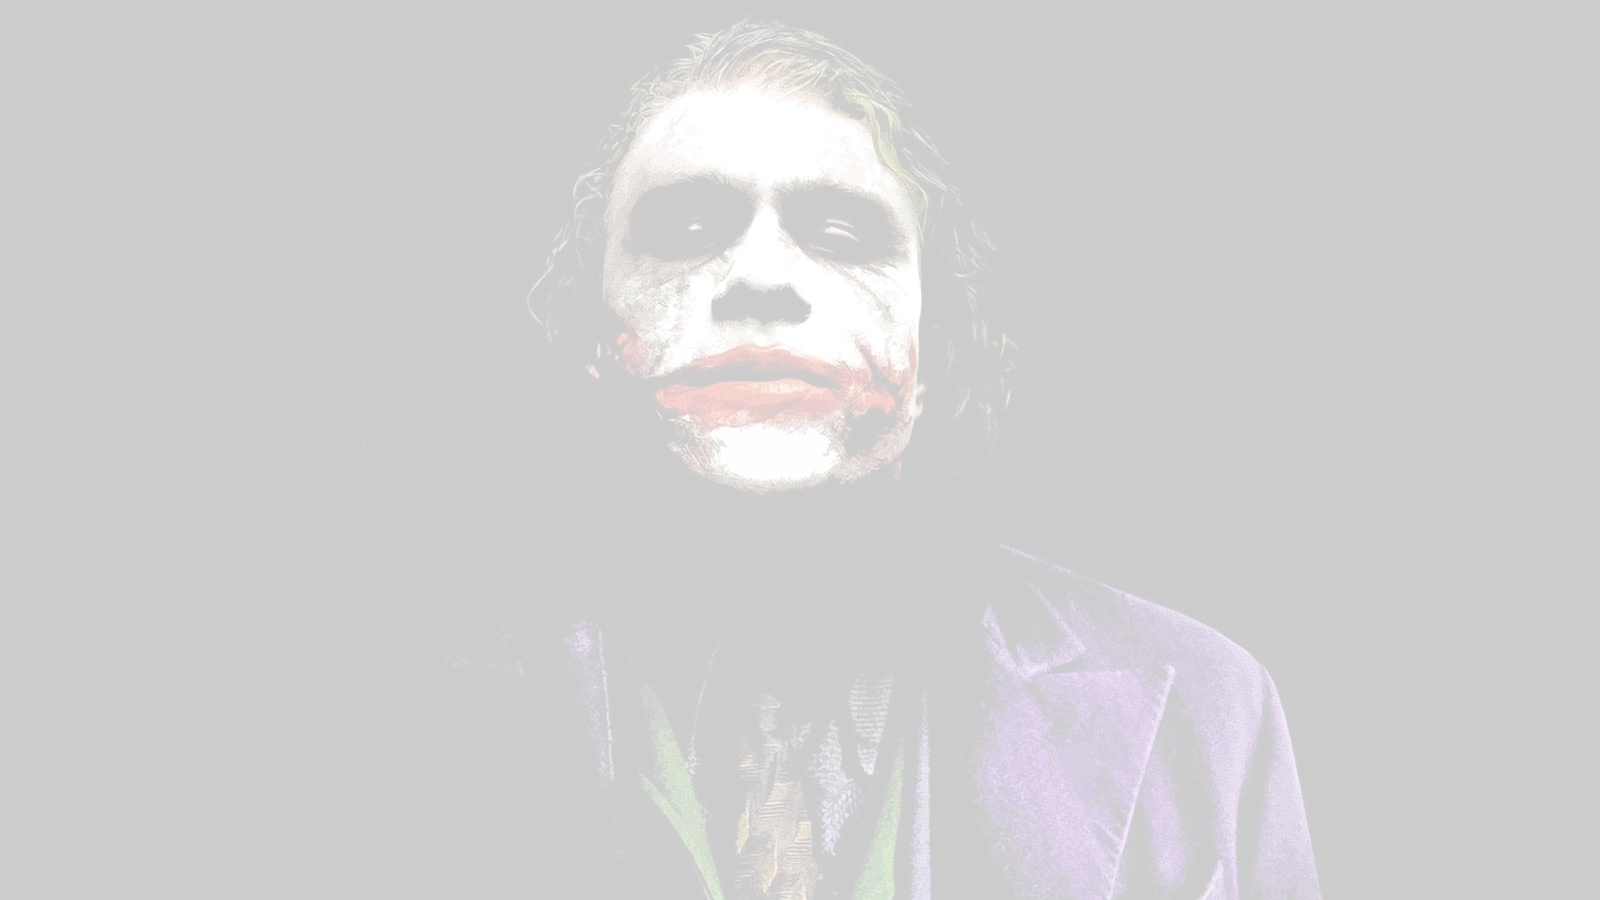
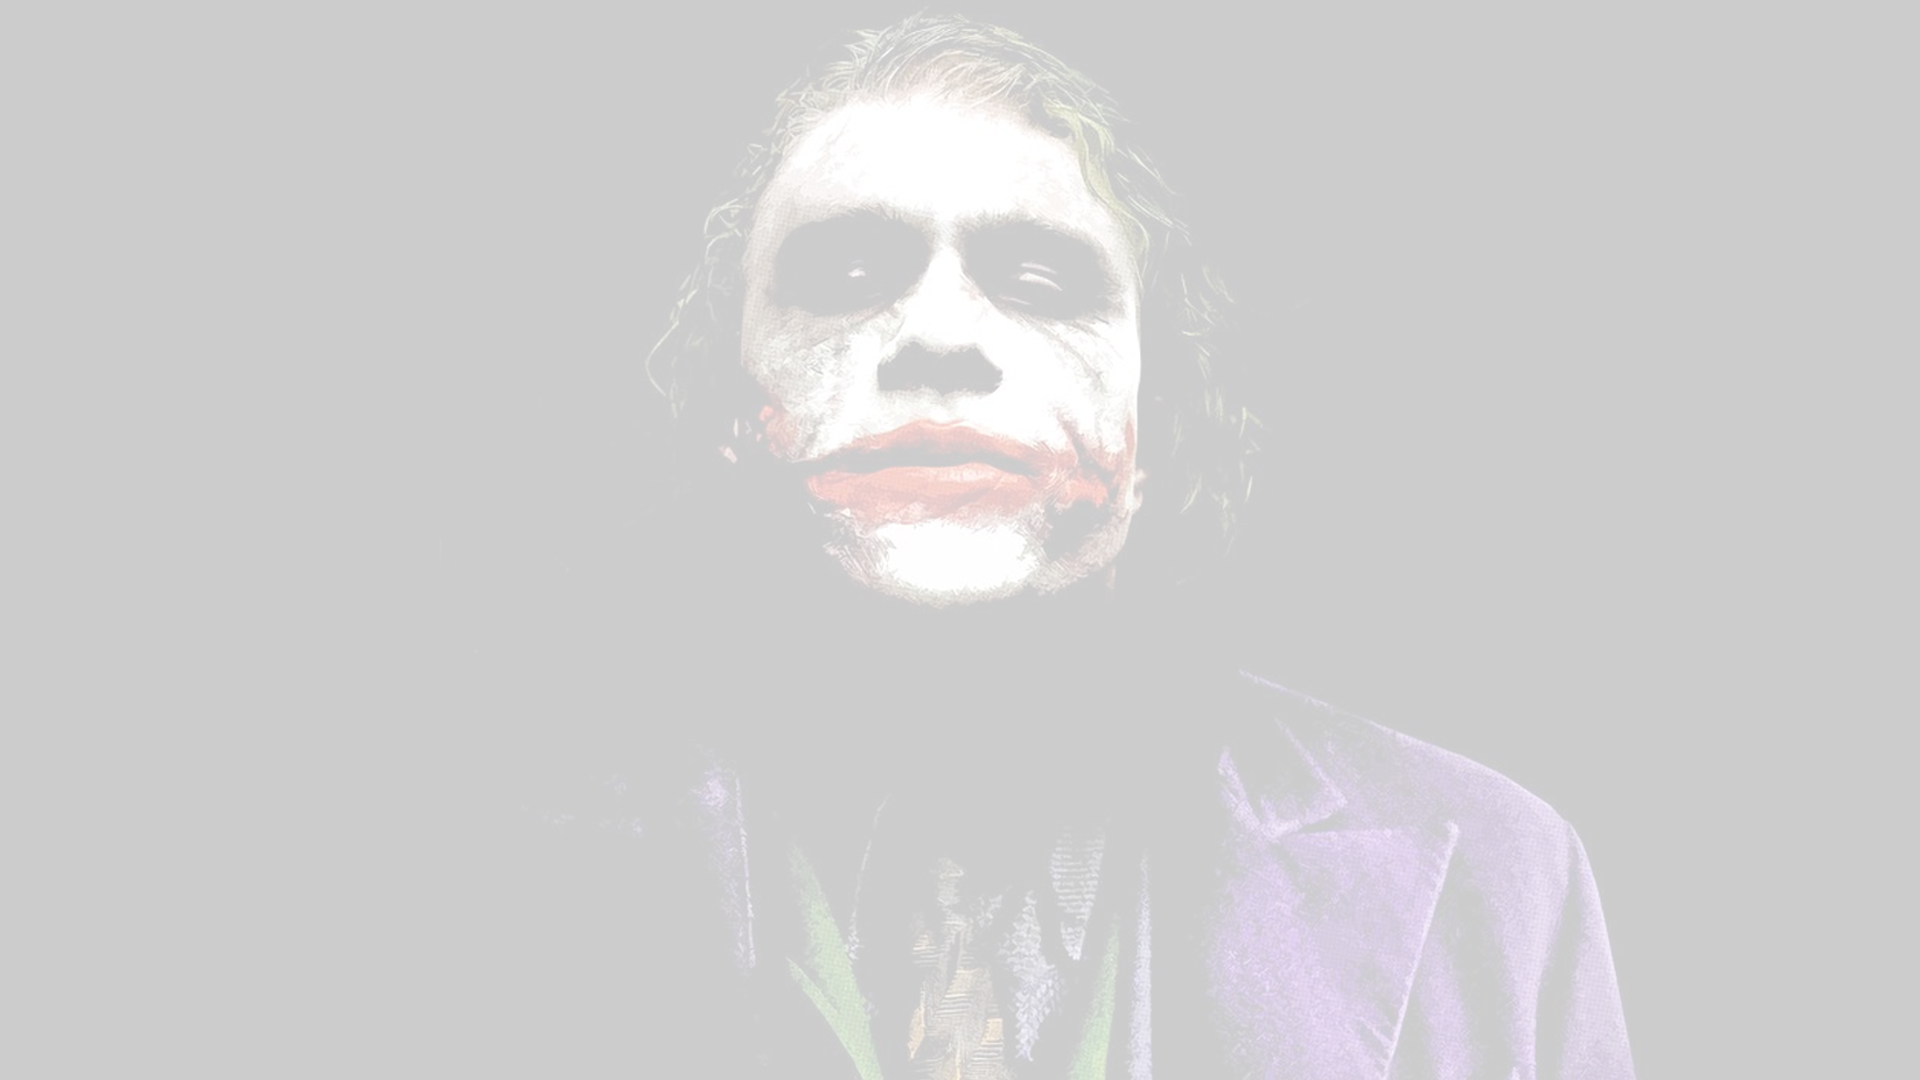
made the images 1920 1080
this was what was making those stupid things the wrong size

diff --git a/sketch.js b/sketch.js
@@ -241,7 +241,7 @@ function draw() {
   //logs the amp to allow for easier adjustments as I go  
   console.log(qrs);
   // moves the image off from 0,0 in the top left. COULD NOT GET THIS TO CENTER with imageMode(CENTER)
-  translate(width*0.07,height*0.07);
+  //translate(width*0.07,height*0.07);
   // this makes the shapes keep popping up. speed theoretically controlls the amount of shapes but it doesn't seem to respond well. too high and it lags
   for(var i = 0; i < speed ; i++){
   
@@ -318,7 +318,7 @@ function draw() {
    }
   
   console.log(qrs);
-  translate(width*0.07,height*0.07);
+  //translate(width*0.07,height*0.07);
   
   for(var i = 0; i < speed ; i++){
   
